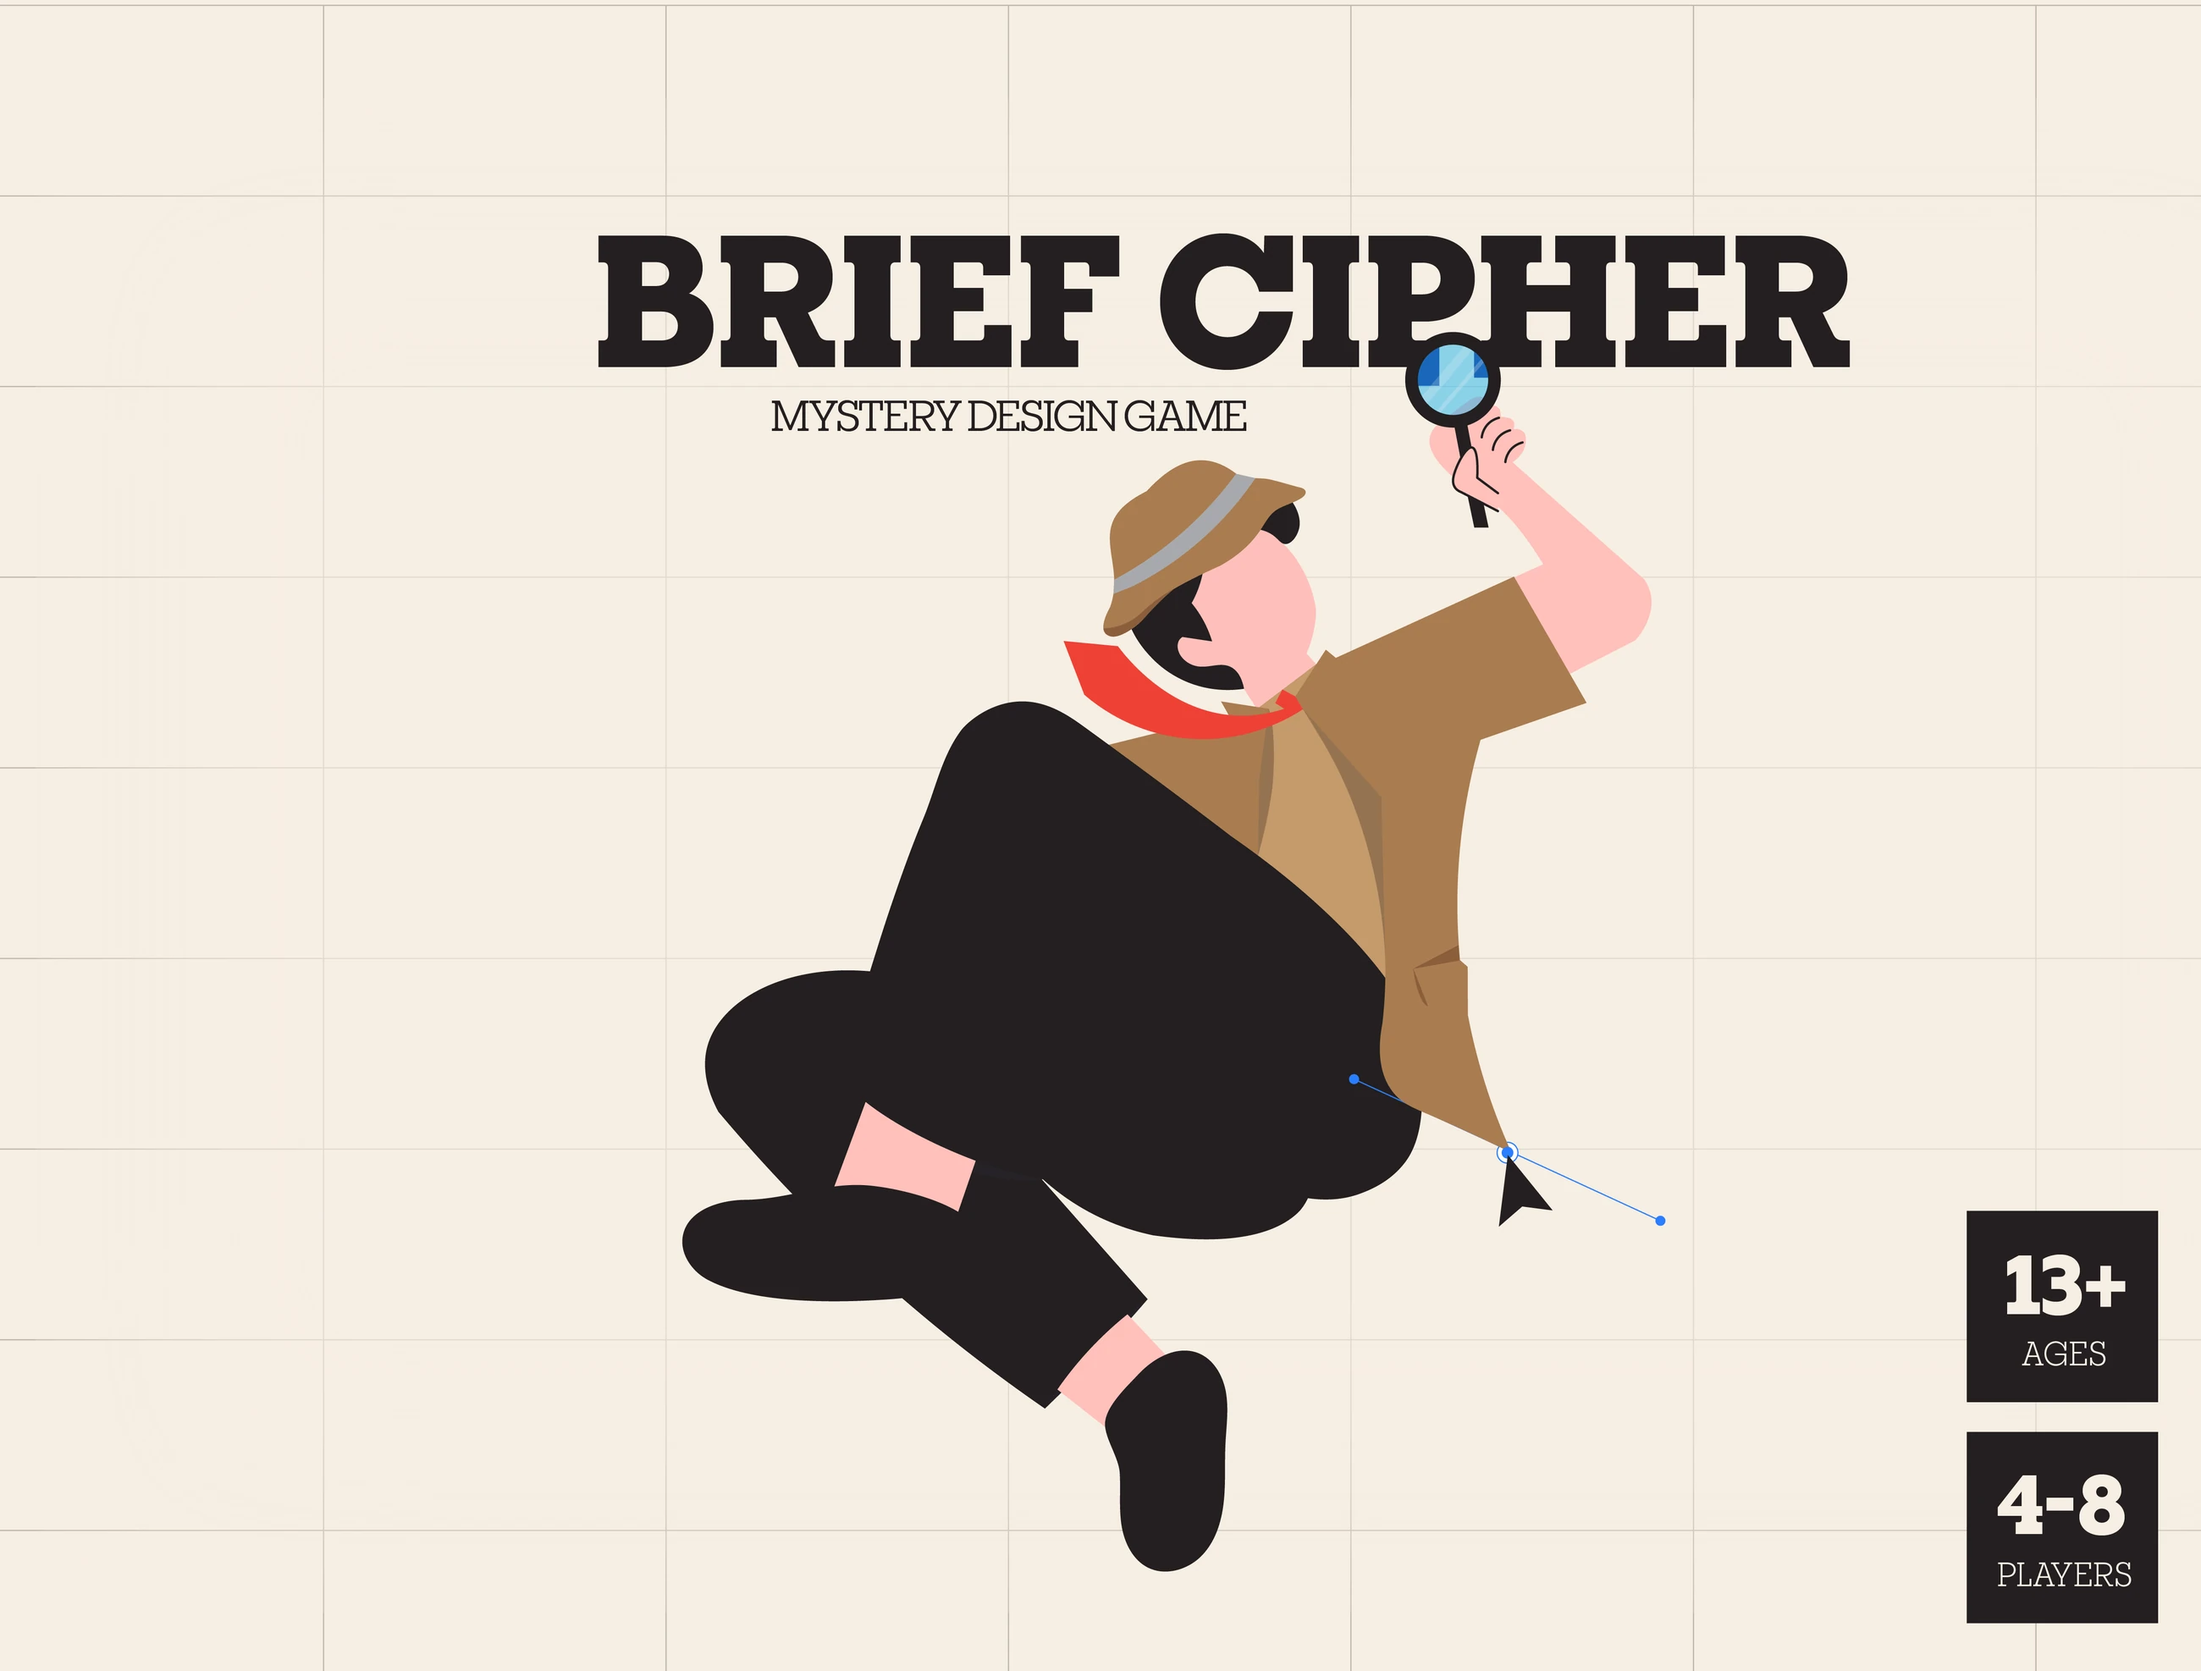
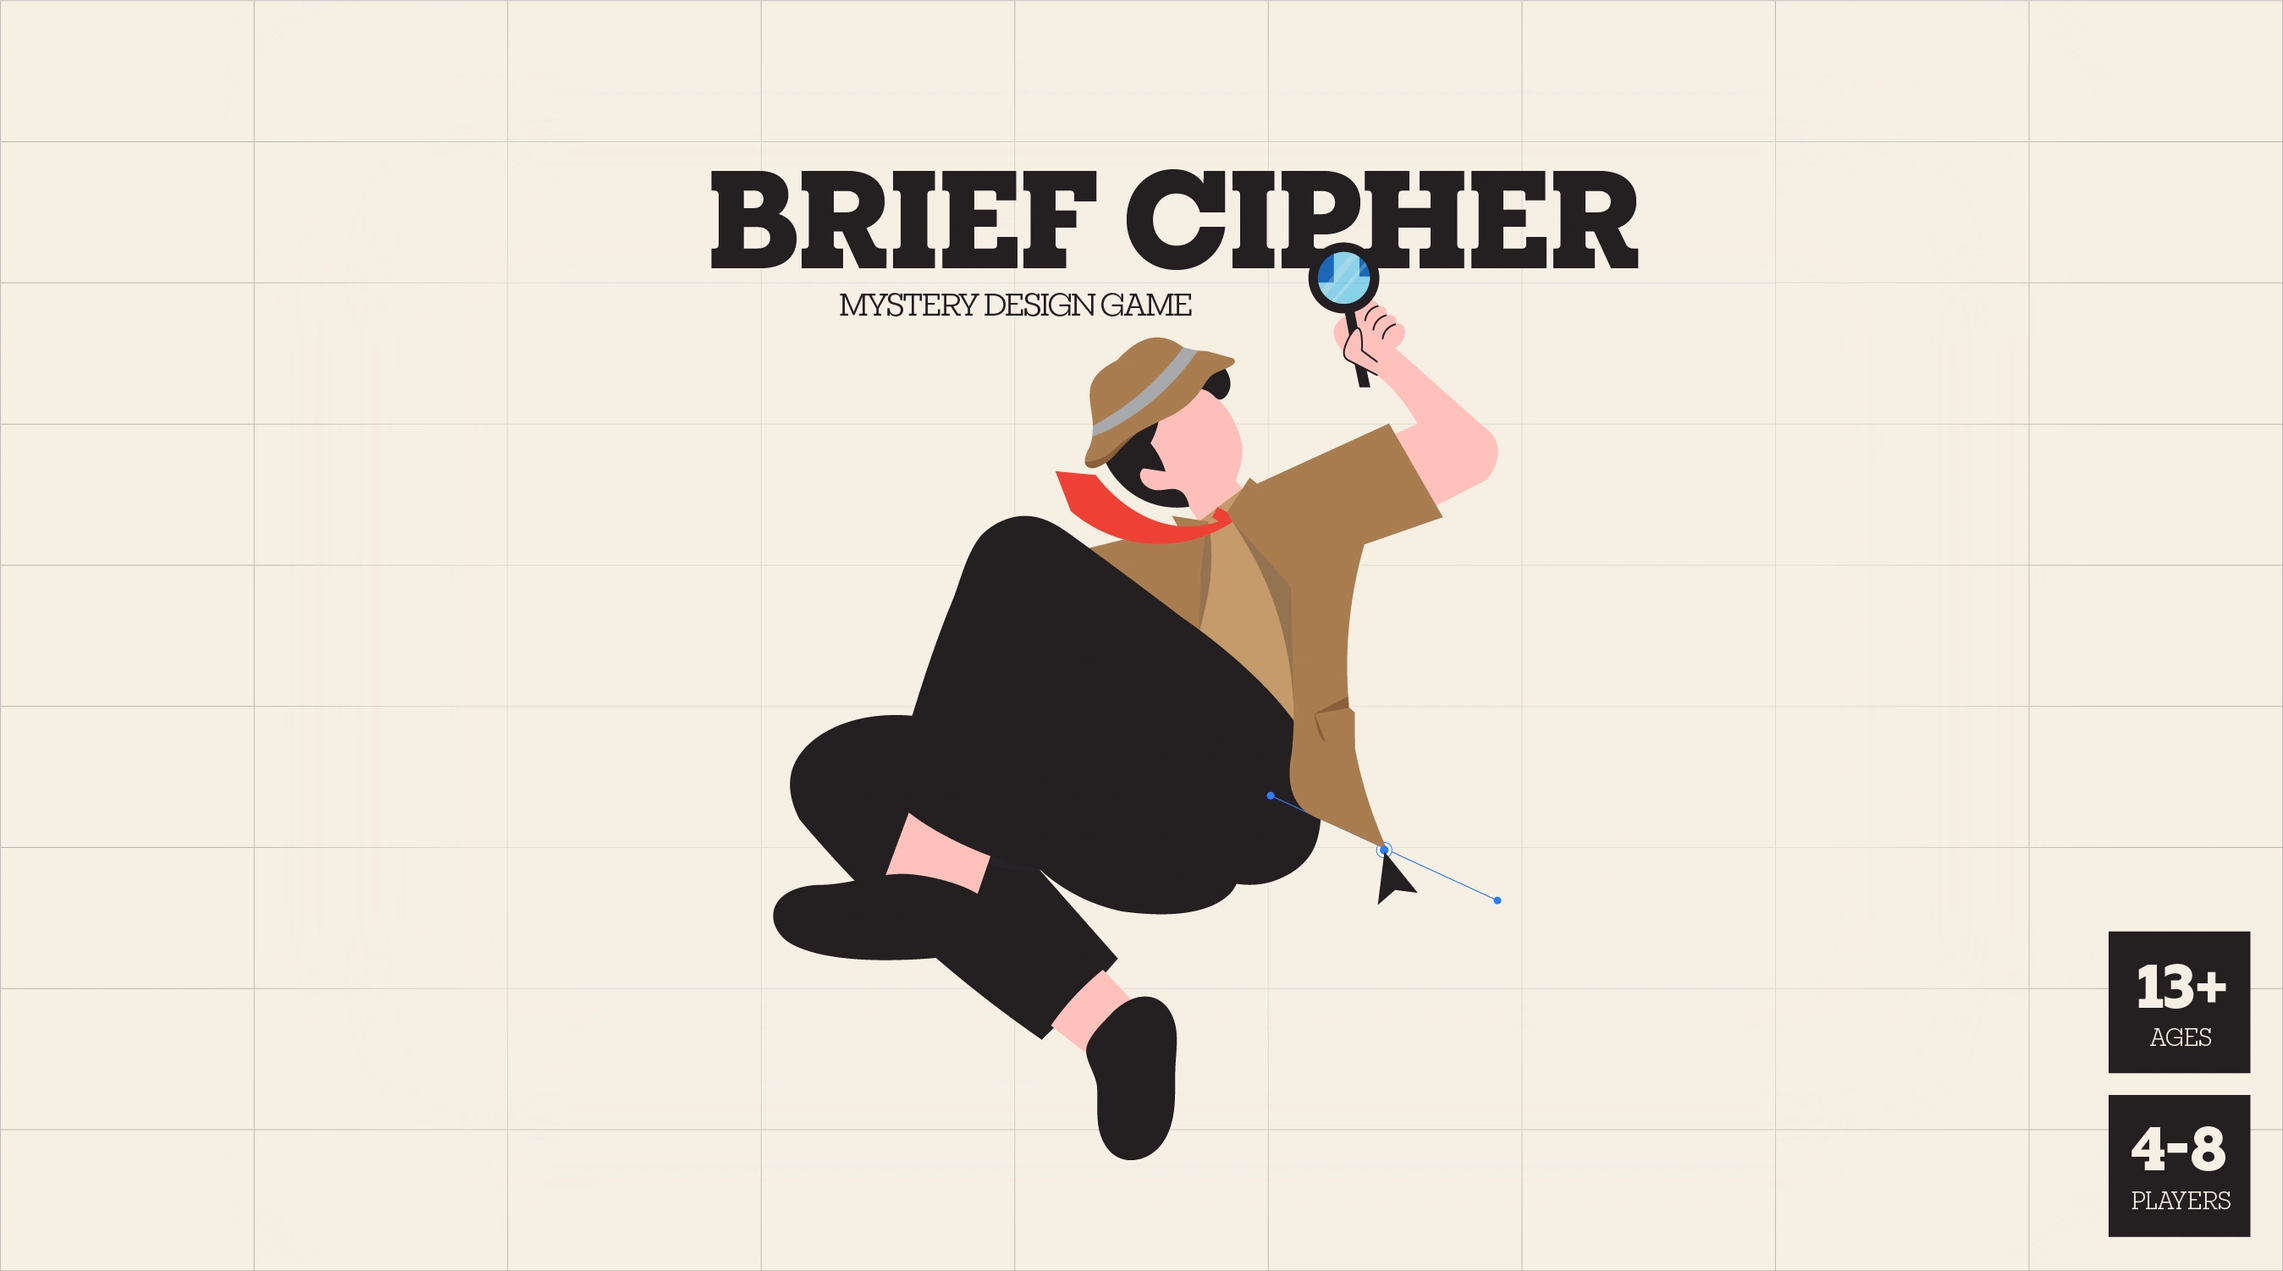
Update Brief Cipher hero artwork with high-res artboard export

diff --git a/brief-cipher.html b/brief-cipher.html
@@ -73,7 +73,7 @@
         <p>Pick a card from the shared 5×5 grid. You have one minute to sketch a clue before your team guesses the design process.</p>
         <p>Each prompt is something designers do, like sketching or wireframing. Harder cards earn more points.</p>
       </div>
-      <div class="bc-media"><img src="assets/projects/brief-cipher/identity/detective-hero.webp" width="2600" height="1974" fetchpriority="high" alt="The Brief Cipher title and detective over a cream grid"></div>
+      <div class="bc-media"><img src="assets/projects/brief-cipher/identity/detective-hero.webp" width="2697" height="1502" fetchpriority="high" alt="The Brief Cipher title and detective over a cream grid"></div>
     </section>
 
     <section class="bc-section bc-section--ink bc-section--identity" aria-labelledby="identity-title">
